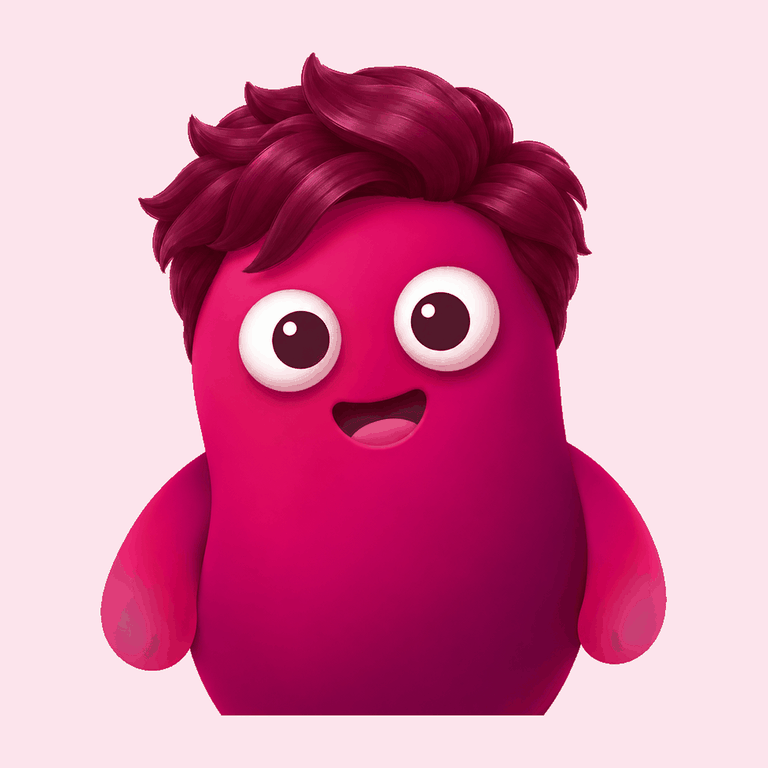
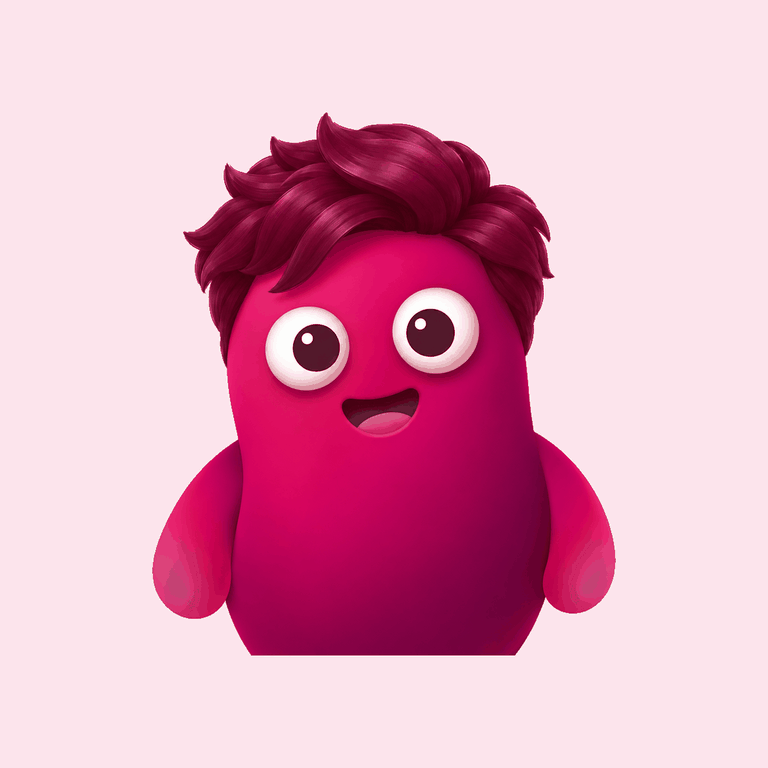
jjj

Changed region(s): [[0.125, 0.0625, 0.875, 0.9375], [0.625, 0.6875, 0.6562, 0.7188]]

diff --git a/components/AvatarNospi.tsx b/components/AvatarNospi.tsx
@@ -66,12 +66,16 @@ export function AvatarNospi({
   const porDefecto = avatarPorGenero(gender);
   if (porDefecto) {
     return (
+      // contentFit "contain" y no "cover": el avatar es un dibujo, no una foto.
+      // Con "cover" el recorte circular le comia los bracitos y la base del
+      // cuerpo. Asi cabe entero y lo que toca el borde del circulo es el fondo
+      // rosado, que es del mismo color del dibujo y no se nota.
       <ExpoImage
         source={porDefecto}
-        style={[base, style]}
+        style={[base, estilos.fondoAvatar, style]}
         cachePolicy="memory-disk"
         transition={0}
-        contentFit="cover"
+        contentFit="contain"
       />
     );
   }
@@ -96,6 +100,8 @@ export function AvatarNospi({
 }
 
 const estilos = StyleSheet.create({
+  // El mismo rosa palido que trae el fondo de los dos dibujos.
+  fondoAvatar: { backgroundColor: '#FCE4EC' },
   inicialCaja: { backgroundColor: '#F8BBD9', alignItems: 'center', justifyContent: 'center' },
   inicialTexto: { color: '#880E4F', fontWeight: '700' },
 });

diff --git a/components/FichaPersona.tsx b/components/FichaPersona.tsx
@@ -315,7 +315,7 @@ const estilos = StyleSheet.create({
   marcoFoto: { width: '100%', backgroundColor: '#FCE4EC', position: 'relative' },
   foto: { width: '100%', height: '100%' },
   sinFoto: { flex: 1, alignItems: 'center', justifyContent: 'center', gap: 10 },
-  sinFotoAvatar: { width: '58%', height: '58%' },
+  sinFotoAvatar: { width: '74%', height: '74%' },
   sinFotoInicial: { fontSize: 76, fontWeight: '800', color: '#AD1457' },
   sinFotoTexto: { fontSize: 13, color: '#AD1457', fontWeight: '600' },
 
